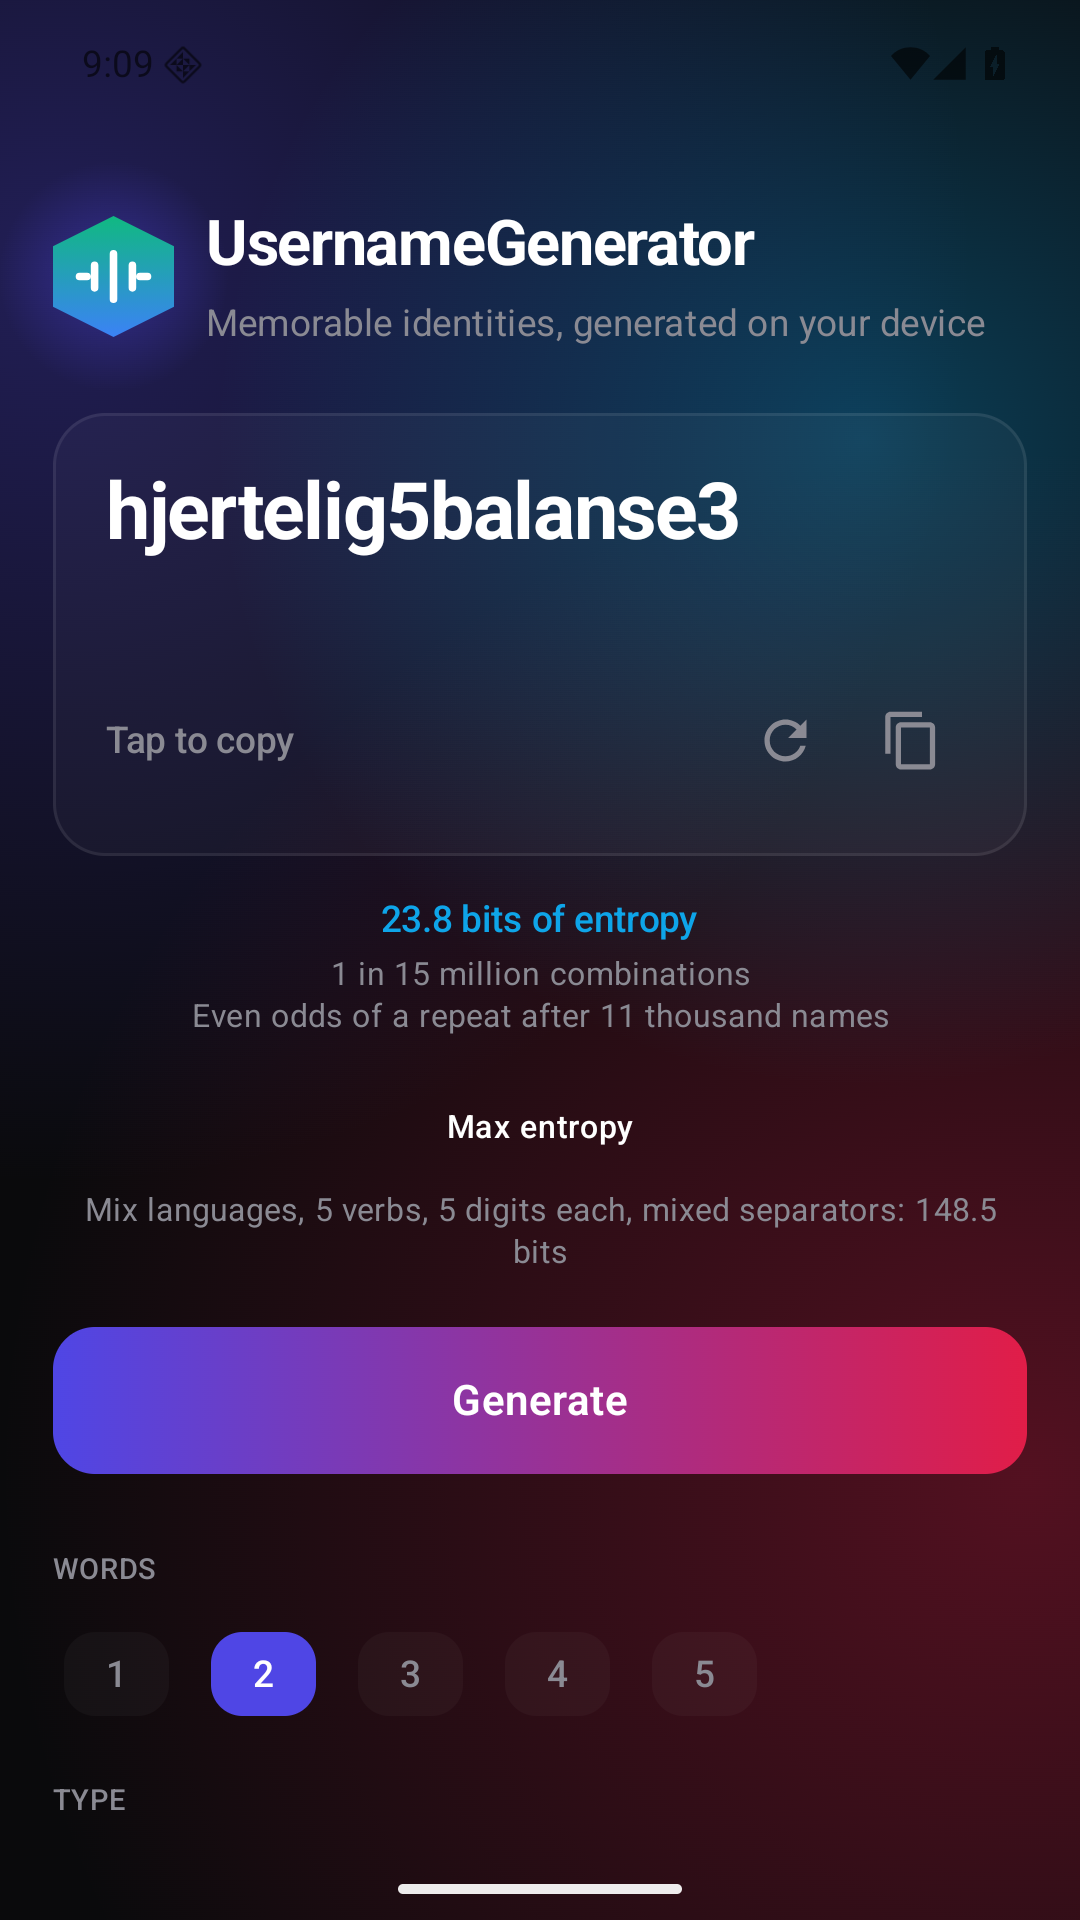
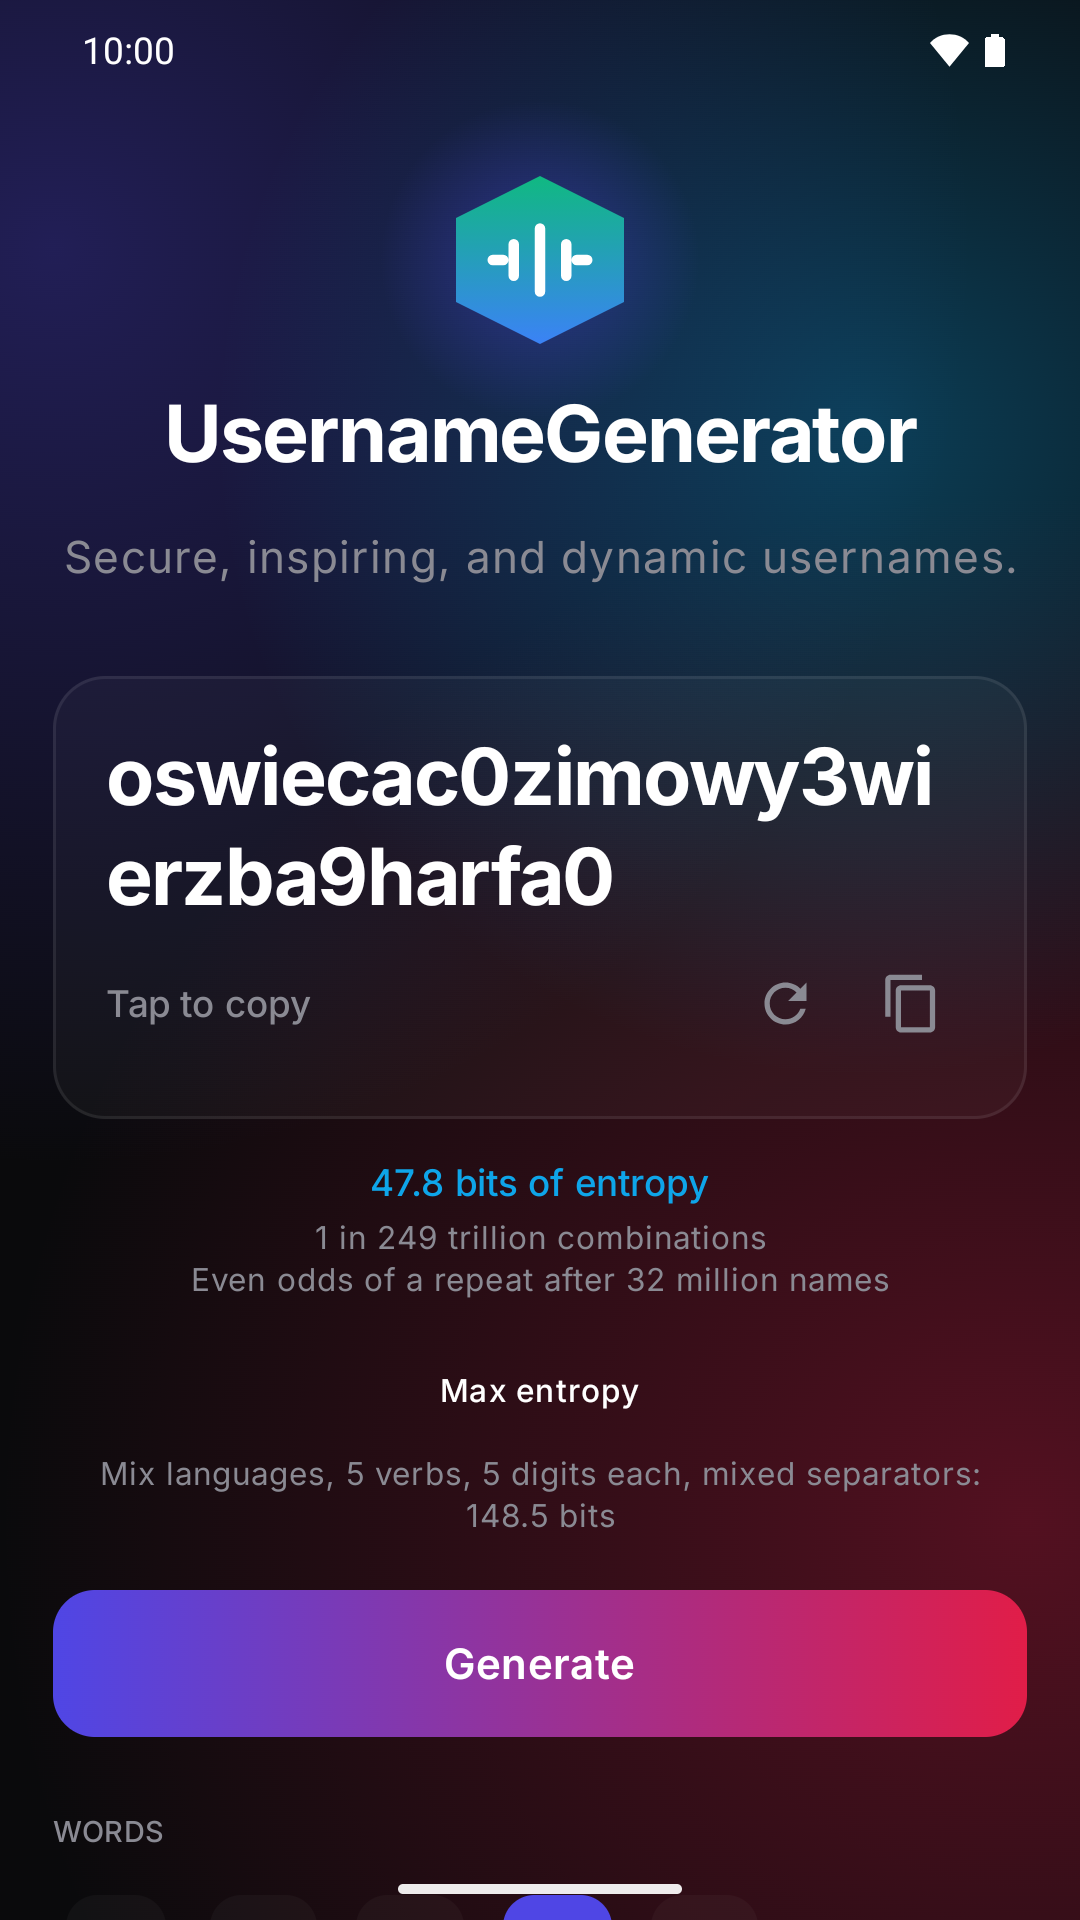
chore(android): release UsernameGenerator 1.1.4
Sovereign 1.1.4 and Play 1.2.2, both versionCode 7, for the CheckLink top
and bottom of the main screen and the website's TypeScript move, strength-readout
fix and opt-in offline pilot that ship with it. The release table in android/README.md
gains the row.

- changelogs/7.txt is this release's own store note (486 characters with
  the link to the full log); CHANGELOG.md at the root is that log, every
  version newest first, rebuilt from the tags and git history, and is kept
  off the site by _config.yml.
- Three store screenshots per form factor, retaken from the debug build on
  an API 36 emulator: the first username, the controls with the recent
  list, and the footer. 1080x1920 for phone and 7-inch, 1440x2560 for
  10-inch, all 9:16. The recent and privacy shots are removed.
  zapstore.yaml lists the three phone shots and says 1080x1920.
- tests/static.test.ts also checks that CHANGELOG.md is excluded.

The store screenshots start at the Stormberry wordmark. The note and
CHANGELOG.md say the footer credits the project the word lists were built
with; the other licences are in NOTICE and the README.

diff --git a/tests/static.test.ts b/tests/static.test.ts
@@ -54,7 +54,7 @@ test('every local script and stylesheet carries the ?v= stamp of its current byt
 test('_config.yml keeps sources, tooling and tests off the site, and publishes the app', () => {
   const cfg = read('_config.yml');
   const excluded = [...cfg.matchAll(/^ {2}- (\S+)$/gm)].map((m) => m[1]);
-  for (const x of ['ts/', 'tools/', 'tests/', 'node_modules/', 'package.json', 'package-lock.json', 'tsconfig.json', 'tsconfig.sw.json', '.npmrc', 'bump_assets.py', 'README.md', 'DISCLAIMER.md', 'PRIVACY.md', 'LICENSE', 'NOTICE', 'android/', 'fastlane/', 'zapstore.yaml', 'username.py', 'build_dicts.py', 'build_dicts_robust.py']) {
+  for (const x of ['ts/', 'tools/', 'tests/', 'node_modules/', 'package.json', 'package-lock.json', 'tsconfig.json', 'tsconfig.sw.json', '.npmrc', 'bump_assets.py', 'README.md', 'CHANGELOG.md', 'DISCLAIMER.md', 'PRIVACY.md', 'LICENSE', 'NOTICE', 'android/', 'fastlane/', 'zapstore.yaml', 'username.py', 'build_dicts.py', 'build_dicts_robust.py']) {
     assert.ok(excluded.includes(x), `${x} is excluded`);
   }
   // The page fetches data/ at run time, and loads script.js, so neither may ever be excluded.

diff --git a/CHANGELOG.md b/CHANGELOG.md
@@ -1,0 +1,76 @@
+# Changelog
+
+Every released version of the UsernameGenerator Android app, newest first. Each release is tagged `android-vX.Y.Z` and its APK is on the [releases page](https://github.com/StormberryAS/UsernameGenerator/releases). The short note shown in the app store for a release is `fastlane/metadata/android/en-US/changelogs/<versionCode>.txt`; this file is the full log it points to. Website changes (username.stormberry.as) have no version number of their own; the ones that ship with a release are listed under it. The Google Play build of a tag has its own version number (see the table in `android/README.md`).
+
+## 1.1.4 (versionCode 7)
+
+A new top and bottom for the main screen, matching the other Stormberry apps. The generator, the word lists and the permissions are as in 1.1.3. The Google Play build of this tag is version 1.2.2 (code 7).
+
+Top
+- The mark, the name and the tagline are now centred, with the mark larger. The tagline is the one on username.stormberry.as, word for word.
+- The clock and battery icons in the status bar, and the gesture bar, are light on the dark page, also when the phone is set to a light theme.
+
+Bottom
+- The small footer is replaced by CheckLink's: the Stormberry name and tagline, what runs on your device and the project the word lists were built with, the Stormberry icon row (LinkedIn, GitHub, Nostr, Tor), a line to test the privacy claim by disconnecting, "No permissions. No network. No tracking.", then the company line with Privacy and Disclaimer, and the date of the word lists.
+- The footer credits the project the generator is built on, with a link to its source and licence: Deep-Translator, which made the word lists (Apache 2.0, the licence it ships; earlier notices called it MIT). The Inter typeface, the Lucide and Material icons, Android Jetpack and Kotlin are credited in NOTICE and the README, with their licences. NOTICE also says plainly that the Nostr and Tor marks in the icon row have no recorded author.
+- Every link except Privacy opens in another app; Privacy opens inside UsernameGenerator. If your phone has no app for a link, a short message says so. The app still has no INTERNET permission.
+- A Disclaimer link is new; it opens the page on username.stormberry.as.
+
+Tests and build
+- The permissions are unchanged. New tests pin every footer link and keep the tagline equal to the website's.
+- The store screenshots are retaken: the first username, the controls with the recent list, and the footer.
+
+Website, shipped with this release
+- The page script is now written in TypeScript and compiled to the same single `script.js`. Nothing you can see or use changes.
+- An opt-in offline mode for the iPhone Home Screen: after one visit to `https://username.stormberry.as/?offline=1`, the page and its word lists are kept on that device so the generator opens with no network. Without that address nothing is stored. The privacy page now names this option as the exception to "no local storage". It is not used by the Android app, the onion mirror or any other address.
+- The footer on username.stormberry.as now carries the app footer's texts word for word: the credit sentence ("Runs entirely on your device: our own code and word lists built with Deep-Translator (Apache 2.0) and reviewed by native speakers. Nothing is sent."), the word-list date, and the company line with its unbreakable Org.nr. Two lines say what is true of a web page instead: "Your usernames and settings never leave this browser." and "No cookies. No tracking. Every username is generated in your browser." (the app keeps "Your usernames and settings never leave this device. Disconnect and try it." and "No permissions. No network. No tracking."). A test now fails if the shared lines drift apart or either web line changes.
+- The tools that write the test corpora are now TypeScript too. The corpora are unchanged.
+- Fixed: if you changed a setting quickly right after choosing a language whose word list had not loaded yet, the strength readout could show the figure for the earlier setting. It now always shows the latest.
+
+## 1.1.3 (versionCode 6), 2026-10-10
+
+The app is set in Inter, the typeface the website uses, including the generated username itself. The fonts are bundled inside the app, so nothing is downloaded and there are still no permissions. The Google Play build of this tag is version 1.2.1 (code 6).
+
+Website, shipped with this release
+- The Disclaimer and Privacy pages use Inter too.
+- The footer and the carousel of other Stormberry Labs apps follow the design now shared by the Labs sites: every footer line passes WCAG AA contrast, the carousel is a labelled region that keyboard users can pause, and the credit line names Deep-Translator with a working link.
+
+## 1.1.2 (versionCode 5), 2026-10-03
+
+The app is unchanged. The version was raised so that Zapstore offers the refreshed listing (current screenshots and an install check that names no version) to phones that already have the app.
+
+Website, shipped with this release
+- Links to the Zapstore and Google Play listings, and an updated privacy page.
+- The Privacy and Disclaimer links in the footer are easier to read, and the organisation number links to its register entry.
+
+## 1.1.1 (versionCode 4), 2026-09-03
+
+The privacy policy can now be read inside the app. Backup is off: settings had been copied to Google's Auto Backup and survived uninstall, which the policy said they did not. `allowBackup` is now false and both backup descriptors exclude everything. The Google Play build of this tag is version 1.2.0 (code 5), under its own application ID.
+
+Website and command line, shipped with this release
+- The Disclaimer page is published, and the page carries Open Graph and Twitter card tags.
+- `username max` in the command-line tool prints the strongest available settings.
+- The release workflow runs the unit tests before it cuts a release.
+
+## 1.1.0 (versionCode 3), 2026-08-22
+
+A live strength readout and more options, on the website, in the app and in the command-line tool.
+
+- Strength readout: bits of entropy, how many combinations, and how many names before an even-odds repeat.
+- Digits: on by default, before or after each word, one to five per word.
+- Languages: Random draws one for the whole name, Mix draws each word from the pooled vocabulary of all eleven. Random is the new default.
+- Separators: Random uses one throughout, Mix draws one per gap.
+- No word ever appears twice in a name.
+- All 33 word lists were reviewed by native speakers.
+
+## 1.0.1 (versionCode 2), 2026-08-21
+
+- The Stormberry credit in the footer is readable and links to stormberry.as, and the UsernameGenerator mark sits beside the title. Both marks are vectors, so the app still carries no raster images.
+- Usernames are reduced to plain ASCII: letters with no accent to strip (o with a stroke, l with a stroke, sharp s, ae, oe) are now transliterated in the app, the website and the command-line tool, so "drømme" becomes "dromme". The first unit tests check this against the same table in all three.
+- Every word list holds exactly 100 unique words: 272 duplicates were removed and replaced, and 95 words that sat in two categories at once each have one home now.
+- The Tor link in the website footer points to the stormberry vanity address.
+- Still no permissions. The new links hand off to whatever browser you already have.
+
+## 1.0.0 (versionCode 1), 2026-08-11
+
+First release. A native Kotlin and Compose port of username.stormberry.as: 11 languages, no permissions and no network access.

diff --git a/android/README.md b/android/README.md
@@ -186,6 +186,7 @@ mapping:
 | `android-v1.1.1` | 1.1.1 (code 4) | 1.2.0 (code 5) | yes |
 | `android-v1.1.2` | 1.1.2 (code 5) | not published | n/a: app unchanged, cut so Zapstore offers the refreshed listing |
 | `android-v1.1.3` | 1.1.3 (code 6) | 1.2.1 (code 6) | yes |
+| `android-v1.1.4` | 1.1.4 (code 7) | 1.2.2 (code 7) | yes |
 
 **Every Play upload is built from a tag that shipped on GitHub Releases.** Never respin Play
 from an untagged tree; bump, tag, and add a row here. Order of operations: bump, tag, let CI
